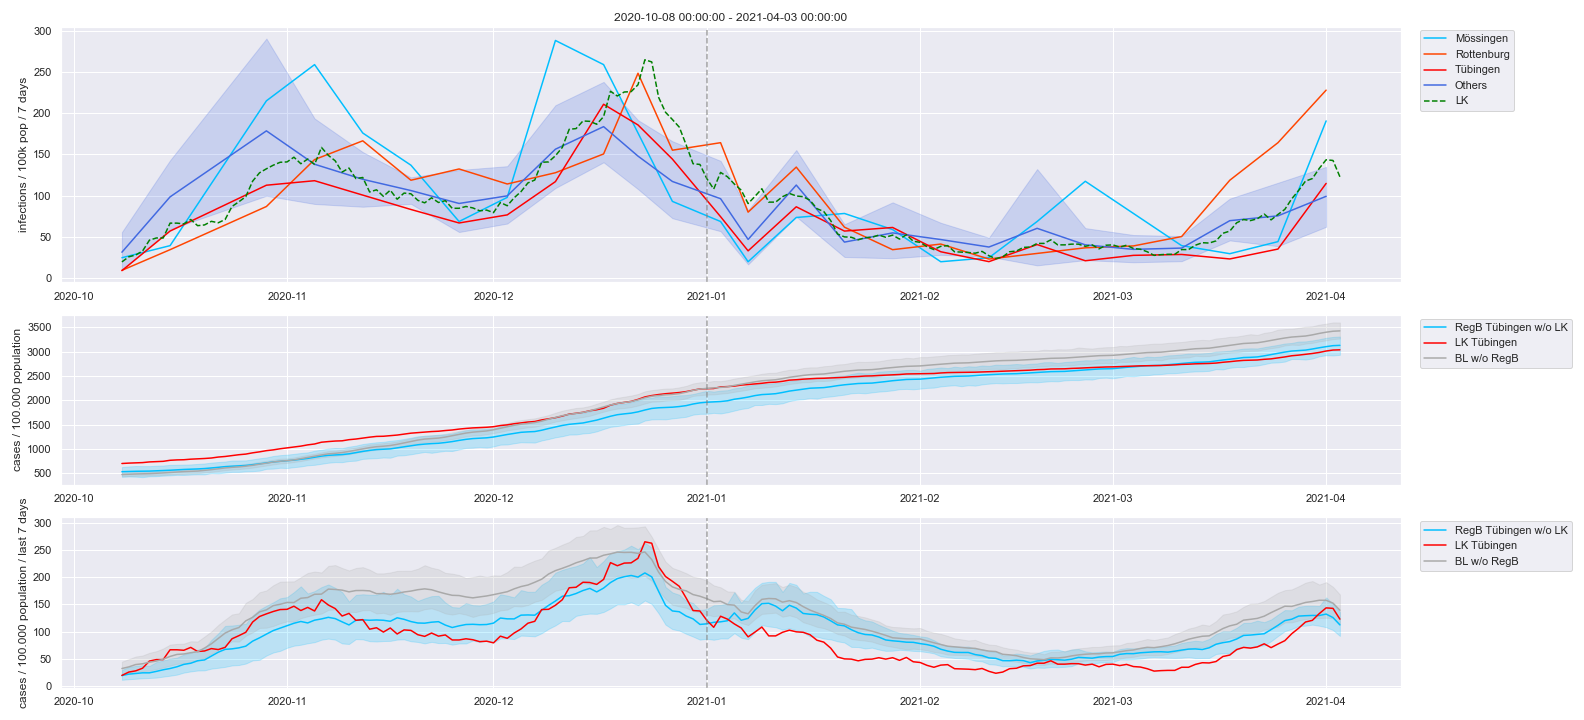
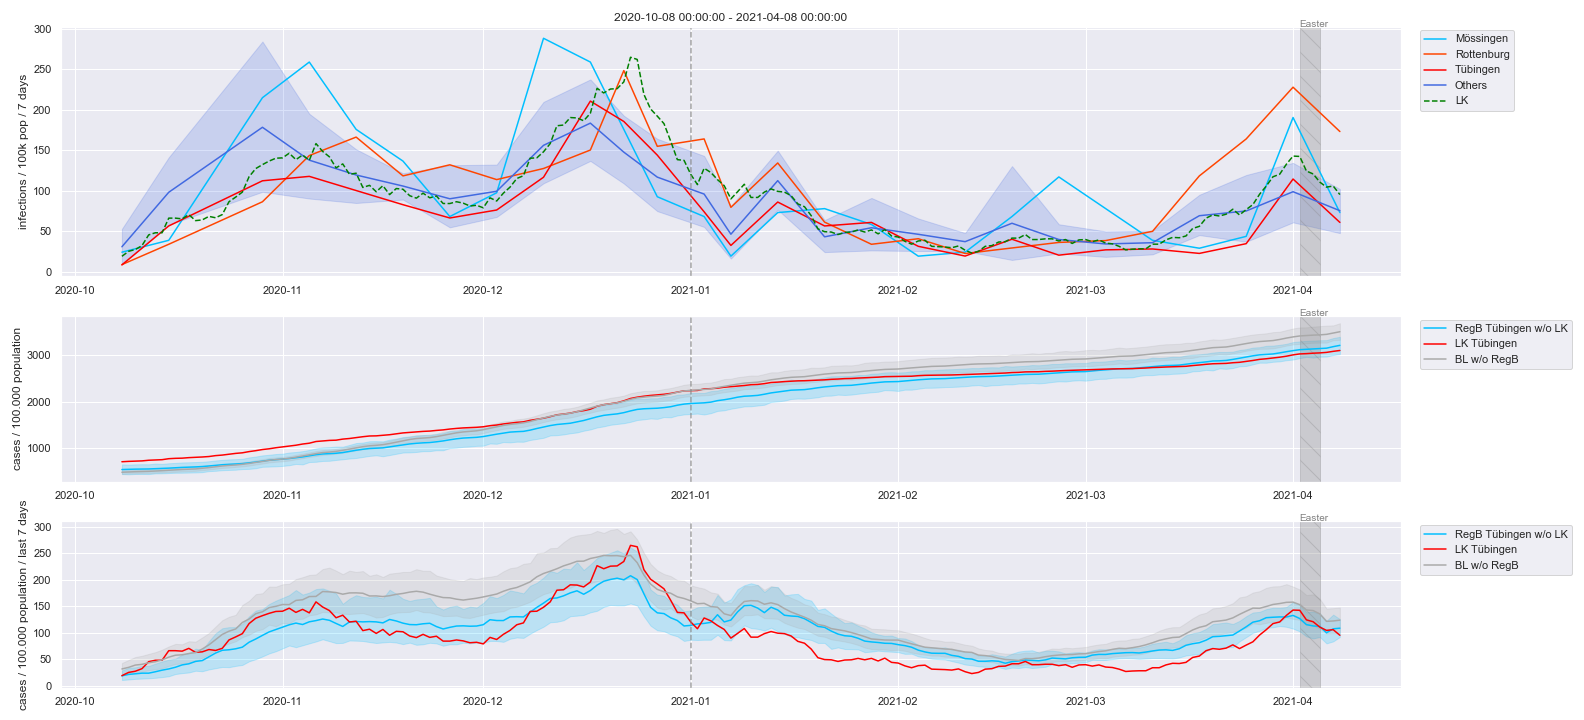
2021-04-09-11-31-41

diff --git a/README.md b/README.md
@@ -7,7 +7,7 @@ data: [Landratsamt Tübingen](https://www.kreis-tuebingen.de/17094149.html)
 
 *Disclaimer*: This data is automatically extracted from the PDFs uploaded by the Landratsamt and published as-is. Should you encounter errors please open an issue in the repository.
 
-data range: 2020-10-08 - 2021-04-01
+data range: 2020-10-08 - 2021-04-08
 
 Fields:
 - region: Always 'LK Tübingen'
